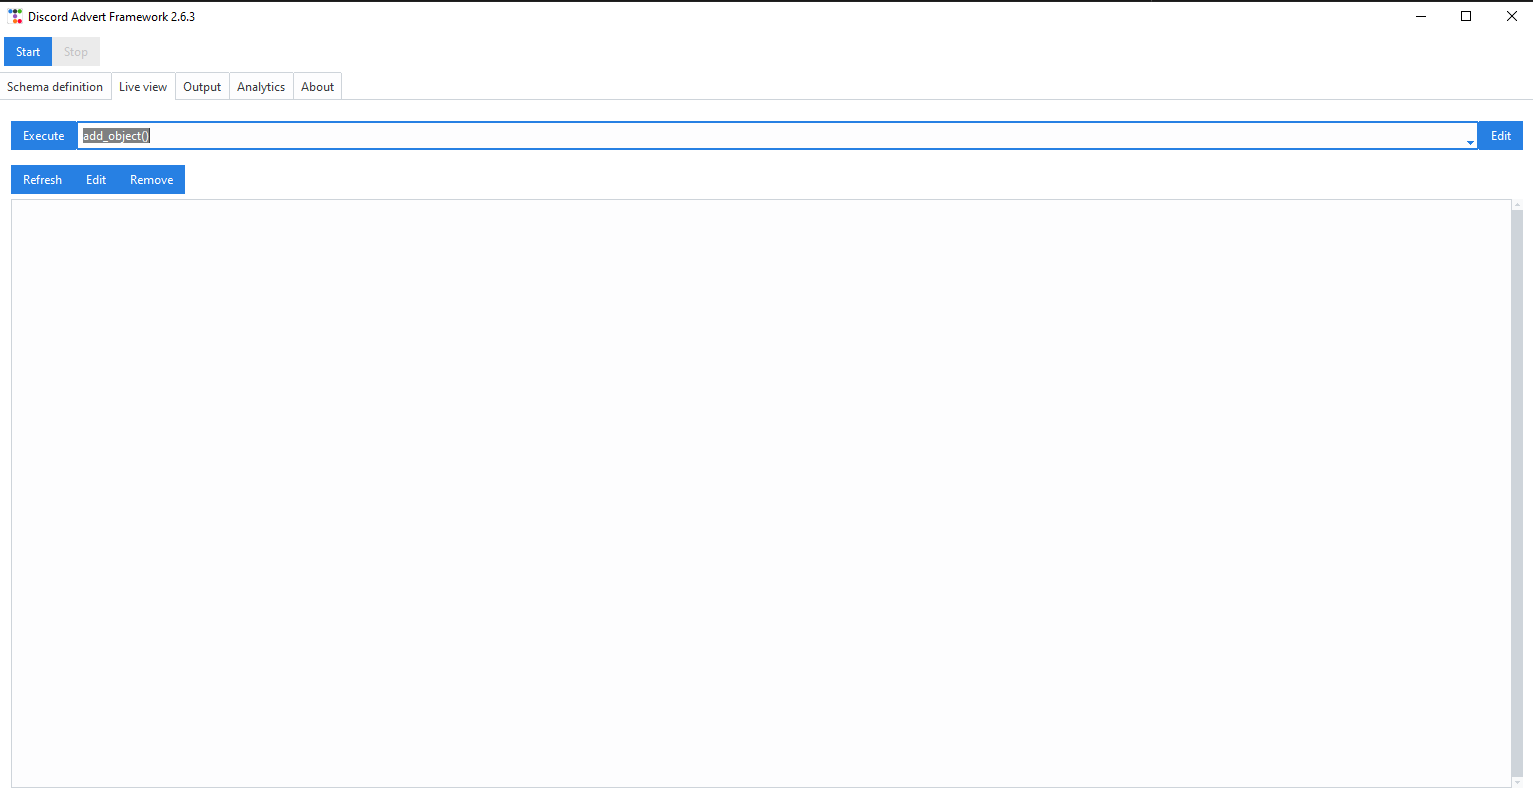
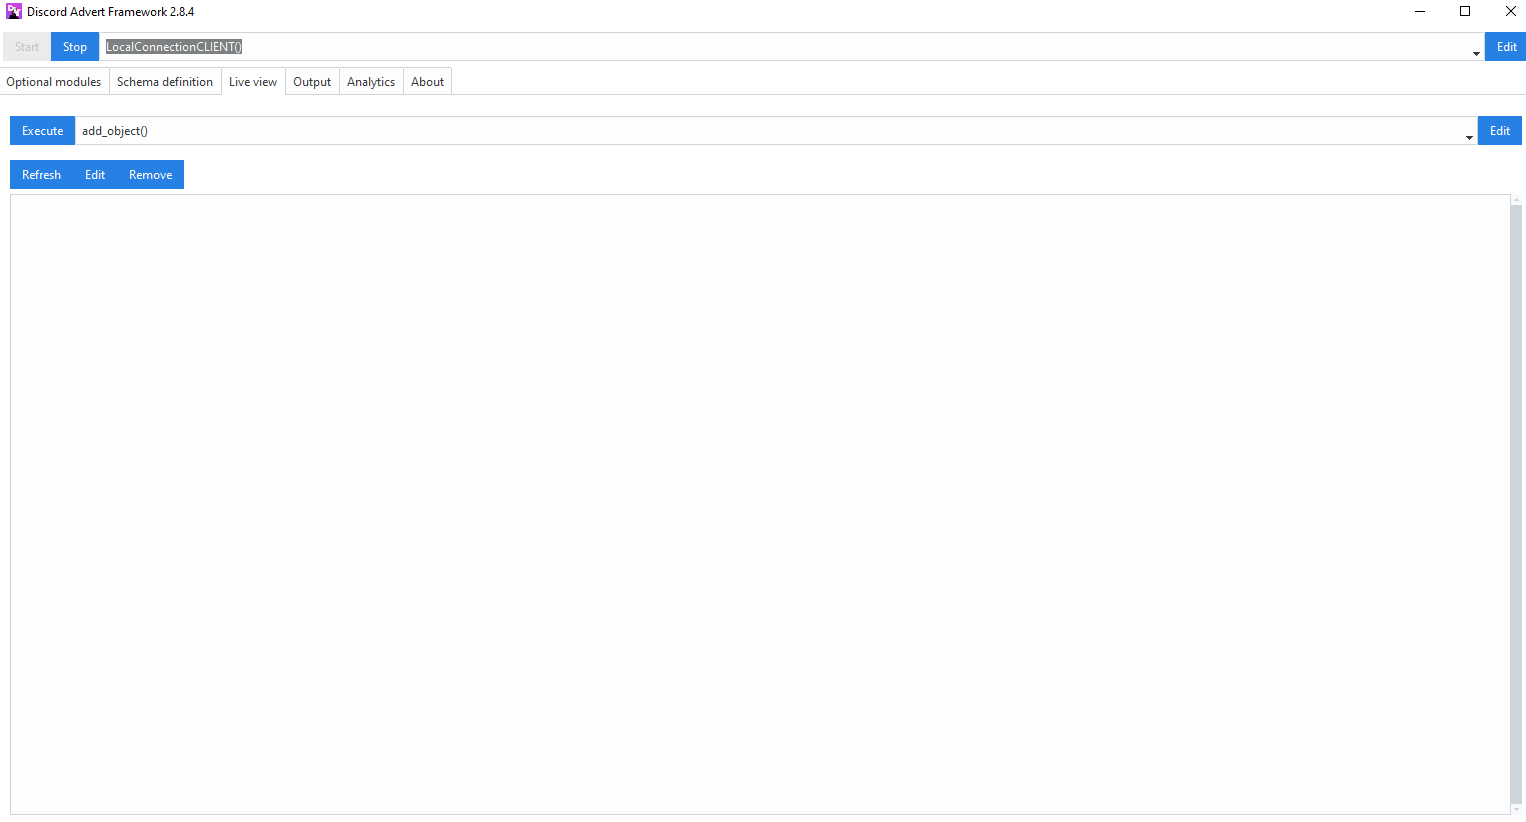
docs

diff --git a/docs/source/guide/GUI/schema.rst b/docs/source/guide/GUI/schema.rst
@@ -1,12 +1,38 @@
-=========================
-Schema tab (GUI)
-=========================
+=========================================
+Account definition / schema tab (GUI)
+=========================================
 
-We can define the schema (accounts, guilds, messages) inside the *Schema definition* tab.
-The tab allows us to define:
+The *Schema* tab allows users to define a fixed schema **template** that can then be saved (loaded) to (from) file. or
+converted into a Python ``.py`` script that runs exactly the same as it would inside the GUI.
+
+-----
+
+Some **important terms** that users need to know if they wish to define objects:
+
+.. glossary::
+
+    Token
+        Refers to the Discord account token, which can be obtained for bots though the
+        `developer tab <https://discordgsm.com/guide/how-to-get-a-discord-bot-token>`_ or
+        though a browser for `user accounts <https://www.androidauthority.com/get-discord-token-3149920/>`_.
+
+    Snowflake (ID)
+        The snowflake ID is Discord's unique identifier that each user, channel, guild, etc. has. It is never duplicated
+        and it only represents a single Discord object. It is often needed inside DAF.
+        To obtain it, first enable `developer mode <https://beebom.com/how-enable-disable-developer-mode-discord/>`_.
+        Then you can right click on the wanted resource (eg. channel) and left click on *Copy ID*.
+
+        .. image:: ./DEP/copy-snowflake-id.png
+            :height: 300
+
+
+-----
+
+In the schema tab we can define:
 
 1. Accounts
 2. Logging & tracing
+3. Connection manager, however this is not inside the schema tab but rather on the top of the GUI.
 
 
 .. image:: ./DEP/daf-gui-front.png
@@ -17,69 +43,75 @@ The tab allows us to define:
 Defining ACCOUNT objects
 ==========================
 
-Basic information
-------------------
-We can define :class:`~daf.client.ACCOUNT` objects by clicking on ``Add ACCOUNT`` button which opens a new window.
+We can define :class:`~daf.client.ACCOUNT` objects by clicking on *Object options* -> *New ACCOUNT*.
+This opens a new object definition window.
 
-.. image:: images/gui-new-account-window.png
+.. figure:: images/gui-new-account-window.png
     :align: center
-    :scale: 70%
+    :height: 300
 
-The window is automatically generated based on the :class:`~daf.client.ACCOUNT`'s parameter annotations and contains exactly the same
-parameters like the core object :class:`~daf.client.ACCOUNT`.
+    Object definition window
+
+
+Basic information about the object definition window
+---------------------------------------------------
 
 In the toolbar (top) we can observe 3 buttons and one toggle. The **Close** button closes the window and asks the user
-if they want to save the object, while the **Save** does the same thing except it saves the object without user
-confirmation. The toggle **Keep on top** will prevent other windows from covering our definition window.
+if they want to save the object to the previous widget, while the **Save** does the same thing except it saves the object without user
+confirmation. The toggle **Keep on top** will prevent other windows from covering the definition window.
 
 The **Help** button opens up the documentation and searches for the corresponding object, in our case, the
-:class:`~daf.client.ACCOUNT` object. You can use this button to gain knowledge about what each **parameter does**
-and which **types it accepts**.
+:class:`~daf.client.ACCOUNT` object. You can use this button to gain knowledge about what each parameter means.
 
-.. image:: images/gui-help-search.png
-    :align: center
-
+When defining structured data there is an additional **Template** button which allows users to save (or load) the current
+parameters to (from) a JSON file. This is simillar to :ref:`Schema backup & Script generation (GUI)` except it only
+backups the current object.
 
 .. note:: Some data types will have additional widgets, such as Color Picker or Datetime select.
 
-In the main frame (below the toolbar) we can see different labels and dropdown menus with one button on the right side.
-These represent the **parameters** of the corresponding objects.
 
-Defining object parameters
----------------------------
 Depending on the datatype each parameter accepts, we can either:
 
 1. Select a value from a predefined list by clicking the little arrow in the dropdown menu:
 
 .. image:: images/gui-predefined-value-select.png
     :align: center
-    :width: 10cm
+    :height: 300
 
 2. Create new value by clicking on the button on the right side of the dropdown and clicking *New <datatype>*,
-   which will open another definition window.
+   which will open another definition frame.
 
-.. image:: images/gui-new-item-define.png
-    :align: center
-    :width: 10cm
+.. grid:: 2
 
-.. image:: images/gui-new-item-define-string-window.png
-    :align: center
-    :width: 10cm
+    .. grid-item::
+
+        .. image:: images/gui-new-item-define.png
+            :height: 300
+
+
+    .. grid-item::
+
+        .. image:: images/gui-new-item-define-string-window.png
+            :height: 300
 
 
 
 3. Edit a value (selected in the dropdown) by clicking on the button on the right side of the dropdown and clicking
-   *Edit selected*, which will open a new definition window for the specific datatype and load in the previously defined
+   *Edit selected*, which will open a new definition frame for the specific datatype and load in the previously defined
    values.
 
-.. image:: images/gui-new-item-edit.png
-    :align: center
-    :scale: 40%
 
+.. grid:: 2
 
-.. image:: images/gui-new-item-edit-string-window.png
-    :align: center
-    :scale: 40%
+    .. grid-item::
+
+        .. image:: images/gui-new-item-edit.png
+            :height: 300
+
+    .. grid-item::
+
+        .. image:: images/gui-new-item-edit-string-window.png
+            :height: 300
 
 
 
@@ -115,7 +147,7 @@ To define an account we can choose from various parameters, the important ones f
 
 
 After defining the ``token`` and other normal parameters, we can define the servers. Defining servers will open up a new
-definition window which allows you to define multiple GUILD objects.
+definition frame which allows you to define multiple GUILD objects.
 
 
 .. figure:: images/gui-new-server-list.png

diff --git a/docs/source/guide/GUI/quickstart.rst b/docs/source/guide/GUI/quickstart.rst
@@ -11,10 +11,17 @@ After successful installation, DAF can be run in graphical mode by executing the
 
     $ daf-gui
 
+On Windows it can also be started though the Run (Ctrl + R) menu.
+
+.. image:: ./images/run-windows-daf-gui.png
+    :align: center
+    :width: 8cm
+
+
 This will open up (after a few seconds) a graphical display you can use to control the framework.
 
 .. image:: ./DEP/daf-gui-front.png
-    :scale: 50%
+    :width: 20cm
     :align: center
 
 
@@ -22,21 +29,29 @@ GUI structure
 ================
 The GUI consists of:
 
-- START and STOP buttons starting and stopping DAF's core,
-- Connection type selection (see :ref:`Remote control (GUI)`)
-- Optional modules tab - Where you can install optional functionallity
-- Schema definition tab - Where you can define accounts, guilds, messages & type of logging:
-  
-  - Accounts - Section for defining your accounts (and guilds and messages).
-  - Logging - Section for defining the logging manager used and the detail of the trace (printouts).
-  - "Schema" menu button - Allows save or load of GUI data and generation of a Python script which will advertise
-    defined data without a GUI. The script interacts directly with DAF core.
+- Connection section:
 
-- Live view - Viewing and updating objects directly in DAF.
-- Output tab for displaying stdout (console) - this is useful for debugging purposes,
-- Analytics tab for doing SQL analysis on sent messages:
+  - START / STOP for starting/stopping or connecting/disconnecting from the core.
+  - Connection type selection (local or :ref:`remote <Remote control (GUI)>`).
 
-  - Messages - Used to view message logs stored in a SQL database.
-  - Number of messages - Table showing successfully and unsuccessfully sent message counts.
-  
-- About tab
+- Tabs:
+
+  - Optional modules tab - Where you can install optional functionallity.
+  - Schema definition tab - Where you can statically (as a template) define accounts, guilds, messages & type of logging:
+
+    - Accounts - Section for defining your accounts (and guilds and messages).
+    - Logging - Section for defining the logging manager used and the detail of the trace (printouts).
+    - "Schema" menu button - Allows save or load of GUI data and generation of a Python script which will advertise
+      defined data without a GUI. The script interacts directly with DAF core.
+
+  - Live view - Manipulating running accounts, guilds, messages, etc..
+  - Output tab for displaying the DAF core's printouts (eg. message removed, guild removed, started, stopped, ...),
+  - Analytics tab for tracking sent messages and invite links:
+
+    This consists of 2 sub tabs, where the first one is for messages and the second one for invite links and each
+    tab has 2 distinct sections:
+
+    - Logs - Used to view the actual data stored inside a database.
+    - Counts - Table that can show basic statistics related to the logs.
+
+  - About tab (short information on the project).

diff --git a/docs/source/guide/GUI/control.rst b/docs/source/guide/GUI/control.rst
@@ -12,15 +12,12 @@ These buttons are called **START** and **STOP** respectively.
     :align: center
 
 
-**Start** button will, like the name suggest, start the framework.
-If the **Load all at start** checkbox inside *Schema definition* tab is checked, it will also load all of the
-defined accounts into DAF.
+**Start** button will, like the name suggest, start the framework (or connect to a remote server, see :ref:`Remote control (GUI)`).
+If the **Load all at start** checkbox inside *Schema definition* tab, Accounts frame, is checked, it will also load all of the
+defined account templates into DAF. Additionally the selected logger inside the Logging frame is set to be used to log messages
+and invites links and it cannot be changed unless the framework is restarted (the same goes for remote).
 
-You can tell the framework is running when the buttons change colors:
-
-Additionally you can see the framework reporting successful initialization inside the *Output* tab.
+Inside the *Output* tab, the core's output can be viewed reporting any runtime errors.
 
 .. image:: images/gui-started-output-defined-accounts.png
-    :width: 20cm
     :align: center
-

diff --git a/docs/source/guide/index.rst b/docs/source/guide/index.rst
@@ -5,8 +5,8 @@ Guide
 
 The following pages contain guides to running the Discord Advertisement Framework in 2 main modes:
 
-1. Core mode (console)
-2. Graphical mode (GUI)
+1. :ref:`Core mode (console / programming) <Quickstart (core)>`
+2. :ref:`Graphical mode (GUI) <Quickstart (GUI)>`
 
 .. toctree::
 

diff --git a/docs/source/guide/GUI/live_view.rst b/docs/source/guide/GUI/live_view.rst
@@ -24,7 +24,7 @@ to the list.
 
 .. image:: ./images/gui-live-view-edit-account.png
     :align: center
-    :width: 10cm
+    :width: 15cm
 
 
 At the top of the *Live view* tab, there's also an *Execute* button with a dropdown menu. It allows you to define a new
